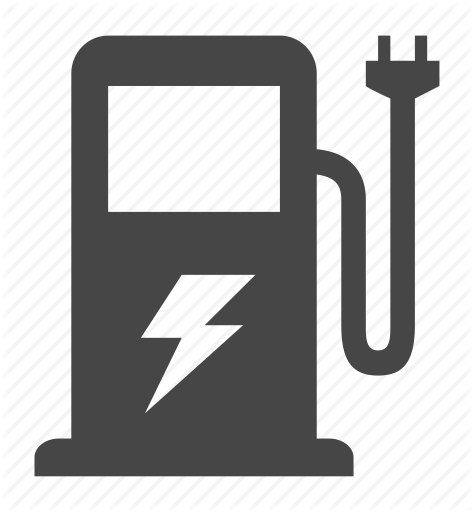
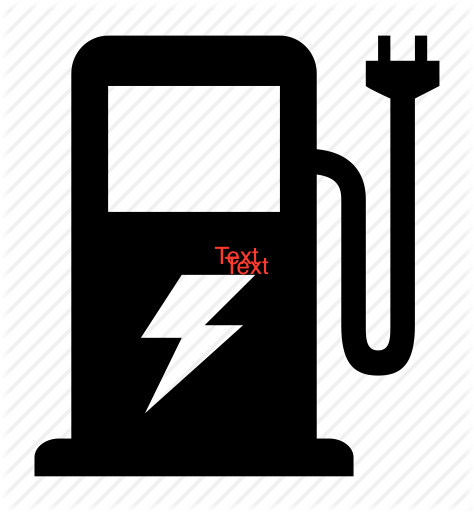
EV images are added

diff --git a/meter.js b/meter.js
@@ -24,7 +24,8 @@ var bg;
 
 function preload() {
     img = loadImage('Building.png');
-    img2 = loadImage('EV2.png');
+    img2 = loadImage('EV6.png');
+    img3 = loadImage('Battery.png');
 }
 
 function Fgreen(pulsate){
@@ -188,7 +189,11 @@ function draw() {
         gp = gp + 1;
     }
      translate(0,0)
-        image (img2, 210, 0, 320, 800, 70, 0, 400, 800);
+
+        image (img2, 250, 100, 300, 600, 0, 0, 680,750 );
+     translate(0,0)
+
+             image (img3, 600, 0, 180, 800, 0, 0, 700, 800);
     push();
     translate(width/2, height/2);
     for (let w = 0; w < width; w+= width/8) {
@@ -209,13 +214,13 @@ function draw() {
                 if(w == width/8) {
                     battery(i)
                     stroke(red, green, blue);
-                    point(-(w - offset), i * width/size - offset);
+                    point(-(w - offset) + 90, i * width/size - offset);
                 }
 
                 if(w == width/4) {
                     redgreen(i, true);
                     stroke(red, green, blue);
-                    point(-(w - offset), i * width/size - offset);
+                    point(-(w - offset ) + 5, i * width/size - offset);
                 }
 
             }
@@ -236,13 +241,13 @@ function draw() {
                 if(w == width/8) {
                     battery()
                     stroke(red, green, blue);
-                    point(-(w - offset), i * width/size - offset);
+                    point(-(w - offset) + 90, i * width/size - offset);
                 }
 
                 if(w == width/4) {
                     redyellow(i, true)
                     stroke(red, green, blue);
-                    point(-(w - offset), i * width/size - offset);
+                    point(-(w - offset + 100) + 5, i * width/size - offset);
                 }
 
             }
